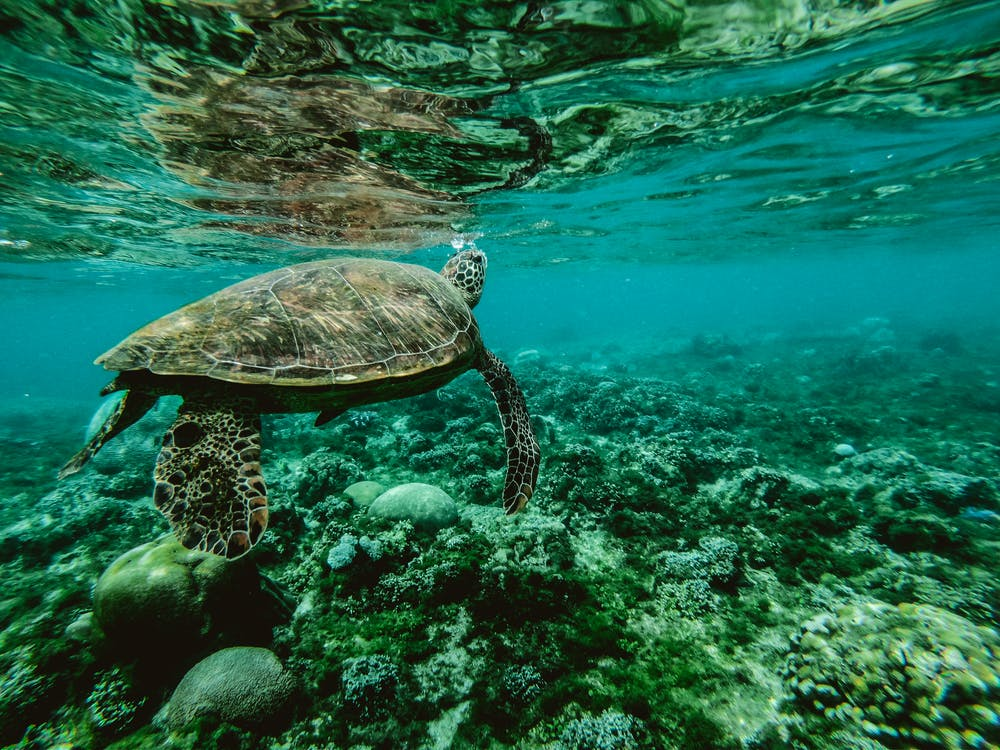
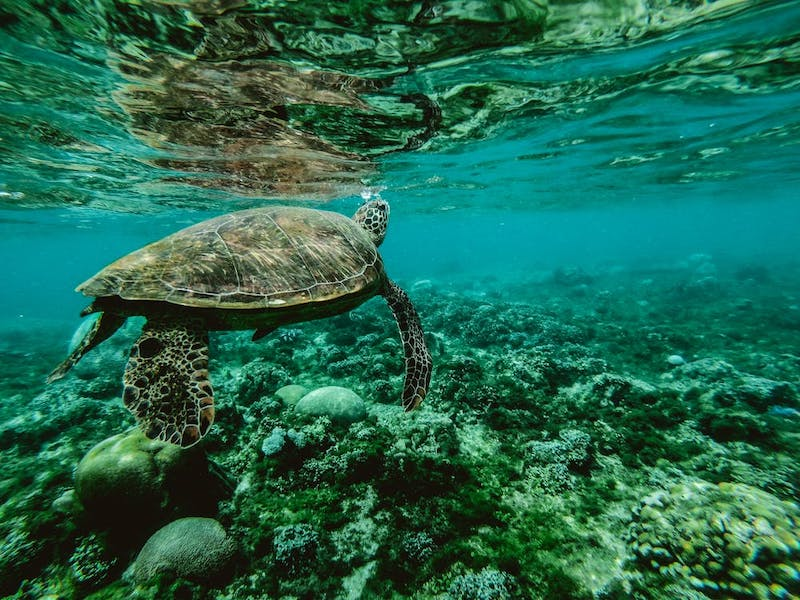
Resize photos and add footer component

diff --git a/tests/integration/components/footer-test.js b/tests/integration/components/footer-test.js
@@ -1,0 +1,26 @@
+import { module, test } from 'qunit';
+import { setupRenderingTest } from 'ember-qunit';
+import { render } from '@ember/test-helpers';
+import { hbs } from 'ember-cli-htmlbars';
+
+module('Integration | Component | footer', function(hooks) {
+  setupRenderingTest(hooks);
+
+  test('it renders', async function(assert) {
+    // Set any properties with this.set('myProperty', 'value');
+    // Handle any actions with this.set('myAction', function(val) { ... });
+
+    await render(hbs`<Footer />`);
+
+    assert.equal(this.element.textContent.trim(), '');
+
+    // Template block usage:
+    await render(hbs`
+      <Footer>
+        template block text
+      </Footer>
+    `);
+
+    assert.equal(this.element.textContent.trim(), 'template block text');
+  });
+});
